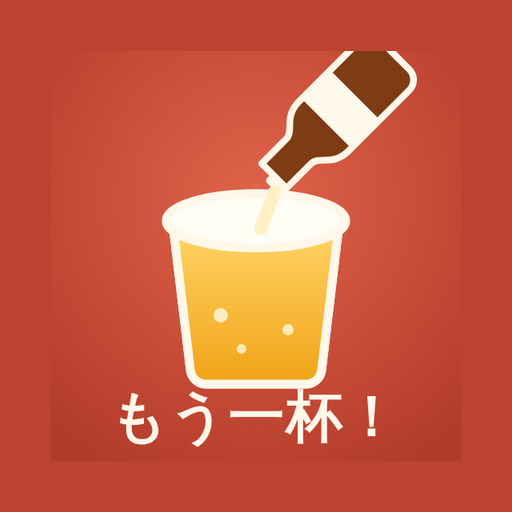
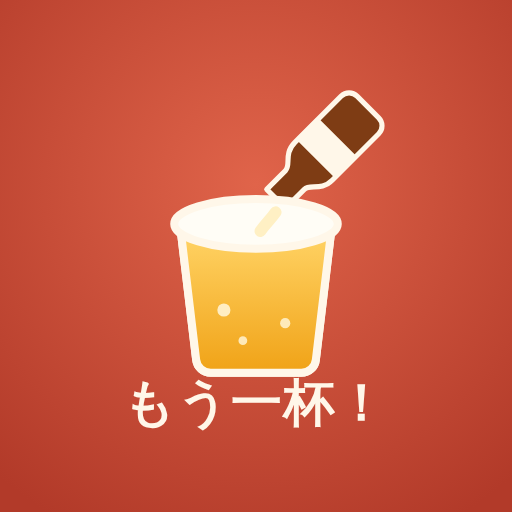
デザイン改善+maskableアイコン修正

Changed region(s): [[0.2188, 0.4062, 0.75, 0.875], [0.3438, 0.0938, 0.8125, 0.4688], [0.4375, 0.6562, 0.5, 0.6875]]

diff --git a/index.html b/index.html
@@ -75,6 +75,7 @@ body{
 /* レベル選択: 18個並べると画面を埋めて絵が出せないので1行にまとめる */
 #levels[hidden]{display:none}
 #lvPick{display:flex;align-items:center;gap:10px;width:100%;max-width:340px;
+  margin-top:10px;   /* 上の設定群と区切って「ここからが本編」のリズムを作る */
   background:rgba(16,10,6,.86);border:1px solid rgba(232,161,60,.45);border-radius:14px;padding:9px 11px}
 #lvPick button{appearance:none;border:0;background:rgba(232,161,60,.22);color:#F6E7CB;
   width:40px;height:40px;border-radius:10px;font:inherit;font-size:17px;font-weight:700;
@@ -87,18 +88,10 @@ body{
 /* 画面の低い端末では詰めて、スクロールせずに「はじめる」まで届かせる */
 @media (max-height:800px){
   #home{gap:8px}
-  #heroMug{width:min(24%,96px)}
   #home h1{font-size:clamp(26px,7.5vw,34px)}
   #levels{gap:4px}
   #home .sub{font-size:12px}
 }
-#heroMug{width:min(34%,140px);flex:0 0 auto;display:block;filter:drop-shadow(0 14px 24px rgba(0,0,0,.55))}
-#heroMug .bub{animation:rise 2.6s linear infinite;opacity:0}
-#heroMug .bub.b2{animation-delay:.9s}
-#heroMug .bub.b3{animation-delay:1.7s}
-@keyframes rise{0%{transform:translateY(0);opacity:0}12%{opacity:.85}100%{transform:translateY(-58px);opacity:0}}
-#heroMug .steam{animation:foamPuff 3.2s ease-in-out infinite}
-@keyframes foamPuff{0%,100%{transform:translateY(0)}50%{transform:translateY(-2px)}}
 #home h1{
   font-family:"Shippori Mincho B1",serif;font-weight:800;
   font-size:clamp(32px,9.5vw,46px);letter-spacing:.06em;line-height:1.1;text-wrap:balance;
@@ -114,10 +107,11 @@ button{touch-action:manipulation}
 .seg button:active{background:rgba(232,161,60,.34)}
 #voiceBtn:active{transform:scale(.94)}
 #levels .lvbtns button:active{transform:scale(.88);background:var(--amber);color:#221503}
-#modeHint{color:var(--mut);font-size:11px;line-height:1.6;max-width:300px;opacity:.85}
+#modeHint{color:var(--mut);font-size:12px;line-height:1.6;max-width:300px}
 #voiceBtn{appearance:none;cursor:pointer;font:inherit;font-size:12px;letter-spacing:.08em;
   color:var(--mut);background:var(--wood);border:1px solid var(--wood-hi);border-radius:999px;padding:8px 16px}
-#voiceBtn.on{color:#221503;background:var(--amber);border-color:var(--amber);font-weight:700}
+/* ONでも塗りつぶさない。塗りのアンバーは「はじめる」だけにして視線を取り合わない */
+#voiceBtn.on{color:var(--amber);background:rgba(232,161,60,.16);border-color:var(--amber);font-weight:700}
 #levels{display:flex;flex-direction:column;gap:5px;width:100%;max-width:320px}
 .lvrow{display:flex;align-items:center;gap:8px;justify-content:space-between}
 .lvname{color:var(--mut);font-size:11px;letter-spacing:.04em;white-space:nowrap;
@@ -135,7 +129,7 @@ button{touch-action:manipulation}
   appearance:none;border:0;cursor:pointer;
   font-family:"Shippori Mincho B1",serif;font-weight:800;font-size:20px;letter-spacing:.14em;
   color:#221503;background:linear-gradient(180deg,#F1B054,var(--amber-deep));
-  padding:16px 44px;border-radius:14px;
+  padding:16px 44px;border-radius:16px;
   box-shadow:0 6px 0 #7A4A0C,0 10px 24px rgba(0,0,0,.5);
 }
 #startBtn:active{transform:translateY(4px);box-shadow:0 2px 0 #7A4A0C}
@@ -271,6 +265,7 @@ button{touch-action:manipulation}
 #hud{
   position:absolute;top:calc(env(safe-area-inset-top,0px) + 10px);left:12px;z-index:3;
   color:var(--mut);font-size:12px;letter-spacing:.08em;font-variant-numeric:tabular-nums;
+  text-shadow:0 1px 3px rgba(0,0,0,.9),0 0 10px rgba(0,0,0,.6);
 }
 #hud b{color:var(--amber);font-weight:700}
 #cv{flex:1 1 auto;min-height:0;width:100%;display:block}
@@ -331,6 +326,12 @@ button{touch-action:manipulation}
   font-family:"Shippori Mincho B1",serif;font-weight:800;
   font-size:clamp(38px,11vw,54px);letter-spacing:.08em;text-align:center;text-wrap:balance;
   animation:stamp .28s cubic-bezier(.2,1.6,.4,1) both;
+  position:relative;
+}
+/* 成功したときだけ、判定の字の後ろに提灯のような光を灯す */
+#result.ok #verdict::before{
+  content:"";position:absolute;inset:-46px -90px;z-index:-1;border-radius:50%;
+  background:radial-gradient(50% 50%,rgba(232,161,60,.26),transparent 70%);
 }
 @keyframes stamp{from{opacity:0;transform:scale(1.7) rotate(-4deg)}to{opacity:1;transform:none}}
 #verdict.bad{color:var(--red)} #verdict.top{color:var(--amber)}
@@ -341,7 +342,8 @@ button{touch-action:manipulation}
 #resScore b{font-size:28px;color:var(--cream);font-family:"Shippori Mincho B1",serif}
 #resParts{display:block;font-size:11px;color:var(--mut);margin-top:3px;letter-spacing:.08em}
 #newBest{color:var(--amber);font-size:12px;letter-spacing:.2em;margin-top:2px;display:none}
-#newBest.on{display:block}
+#newBest.on{display:block;animation:bestPulse .55s ease}
+@keyframes bestPulse{0%{transform:scale(1)}40%{transform:scale(1.28)}100%{transform:scale(1)}}
 #nextBtn,#retryBtn{
   appearance:none;border:0;cursor:pointer;margin-top:16px;
   width:100%;max-width:340px;padding:16px 0;border-radius:16px;
@@ -354,8 +356,9 @@ button{touch-action:manipulation}
   margin-top:12px;padding:11px 0;font-size:16px;color:var(--cream);
   background:var(--wood);box-shadow:none;border:1px solid var(--wood-hi);
 }
-#toHome{appearance:none;border:0;background:transparent;cursor:pointer;margin-top:12px;
+#toHome{appearance:none;border:0;background:transparent;cursor:pointer;margin-top:6px;
   color:var(--mut);font:inherit;font-size:12px;letter-spacing:.2em;
+  padding:12px 20px;   /* 指で押せる高さを確保する */
   text-decoration:underline;text-underline-offset:4px}
 
 #debug{position:absolute;top:calc(env(safe-area-inset-top,0px) + 8px);right:8px;display:none;
@@ -391,7 +394,7 @@ button{touch-action:manipulation}
     <div id="levels" role="group" aria-label="レベル一覧" hidden></div>
     <button id="startBtn">はじめる</button>
     <div id="homeBest"></div>
-    <div id="ver">prototype v1.9 — LV1〜10はイラスト</div>
+    <div id="ver">prototype v2.0 — LV1〜10はイラスト</div>
   </div>
 
   <!-- ゲーム -->
@@ -1788,7 +1791,12 @@ function update(dt){
       } else {
         el.waitBar.classList.remove('on');
       }
-      if(s.Q>0&&!s._vibed){ s._vibed=true; vibe(20); }
+      if(s.Q>0&&!s._vibed){
+        s._vibed=true; vibe(20);
+        // コツのお知らせがグラスの真上に被ったままだと、肝心の縁が見えない。
+        // 注ぎはじめた瞬間に畳む
+        if(noticeT>0.35) noticeT=0.35;
+      }
       if(s.out){
         Input.enabled=false; el.pourBtn.disabled=true;
         s.target=0; s.Q=0; Snd.silence(); Snd.thud(); vibe(60);
@@ -1864,6 +1872,7 @@ function showResult(){
   const res=G.res, R=VERDICT[res.v], n=G.lvl.lv;
   el.clearTag.textContent=`LEVEL ${n} CLEAR`;
   el.clearTag.classList.toggle('on',R.ok);
+  el.result.classList.toggle('ok',R.ok);
   el.verdict.textContent=R.word;
   el.verdict.className=R.cls;
   el.resMeta.innerHTML=`注いだ量 <b>${(res.F*100).toFixed(1)}%</b>　泡 <b>${foamLabel(res.R,G.lvl)}</b>`;
